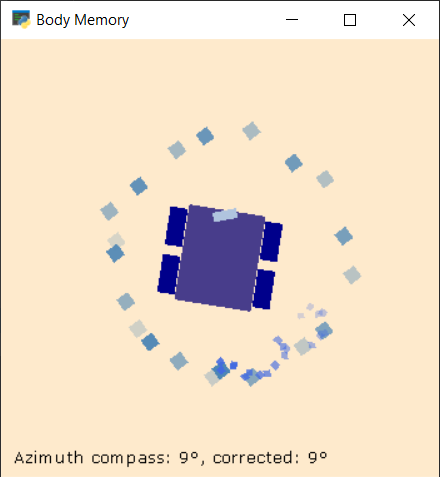
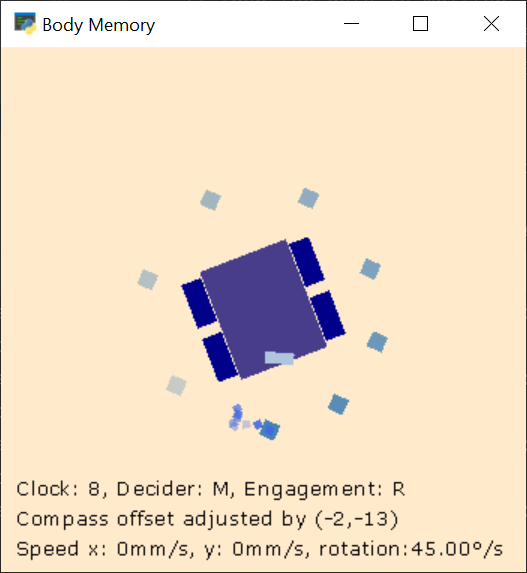
imu fix bug

diff --git a/autocat_enacter/Robot_define.h b/autocat_enacter/Robot_define.h
@@ -1,4 +1,4 @@
-#define ROBOT_ID 1 // 0: regular Osoyoo robot, 1: robot BSN, 2: robot UCBL, 3: robot SHS, 4: SHS with GY86 chez Olivier
+#define ROBOT_ID 3 // 0: regular Osoyoo robot, 1: robot BSN, 2: robot UCBL, 3: robot SHS, 4: SHS with GY86 chez Olivier
 
 #define AP_SSID "osoyoo_robot"          // The wifi SSID of this robot in Access Point
 #define ROBOT_HEAD_X 80                 // (mm) X position of the head
@@ -25,8 +25,8 @@
 #define TURN_SPOT_ENDING_DELAY 500
 #define TURN_SPOT_ENDING_ANGLE 25 // Don't know why this robot is so fast
 #define ACCELERATION_X_OFFSET -40
-#define COMPASS_X_OFFSET 35110 // 35500
-#define COMPASS_Y_OFFSET 36680  // 36500
+#define COMPASS_X_OFFSET 7051 // 7022  // 35110 // 35500
+#define COMPASS_Y_OFFSET 7306 // 7336  // 36680 // 36500
 #define ACCELERATION_SHOCK_THRESHOLD -200
 #define ACCELERATION_BLOCK_THRESHOLD 60  // TODO depends whether the interaction starts when the robot is immobile
 #define GYRO_COEF 1.2  //  1 // IMU is upright. If turns too much, increase this value
@@ -52,7 +52,7 @@
 #define GYRO_COEF 1.35 // UMI is upright
 #define ROBOT_SERVO_PIN 4
 
-#elif ROBOT_ID == 4
+#elif ROBOT_ID == 3
 
 #warning "Compiling for SHS's robot with GY-86"
 #define ROBOT_HAS_MPU6050  true

diff --git a/autocat_enacter/src/lib/MMC5883.cpp b/autocat_enacter/src/lib/MMC5883.cpp
@@ -10,6 +10,9 @@ MMC5883MA::MMC5883MA(){
 
 void MMC5883MA::begin()
 {
+    // Olivier: Avoids freezing the main loop
+    wire->setWireTimeout( 25000, true);
+
     wire->beginTransmission(MMC_ADDRESS);
     // the address of the register is written first
     // in this case CONTROL REGISTER 0
@@ -246,20 +249,19 @@ String MMC5883MA::readData()
     return value;
 }
 
-// Olivier Georgeon for comptability with HMC5883
+// Olivier Georgeon for compatibility with HMC5883
 void MMC5883MA::setOffset(int xo, int yo)
 {
     xOffset = xo;
     yOffset = yo;
 }
 
-// Olivier Georgeon for comptability with HMC5883
+// Olivier Georgeon for compatibility with HMC5883
 Vector MMC5883MA::readNormalize(void)
 {
     update();
-    v.XAxis = (float)((int)sx - xOffset)/5.0;
-    v.YAxis = (float)((int)sy - yOffset)/5.0;
+    v.XAxis = (float)sx/5.0 - xOffset;
+    v.YAxis = (float)sy/5.0 - yOffset;
     v.ZAxis = (float)sy;
-
     return v;
 }

diff --git a/autocat/Display/BodyDisplay/CtrlBodyView.py b/autocat/Display/BodyDisplay/CtrlBodyView.py
@@ -31,7 +31,7 @@ class CtrlBodyView:
                     # Find the center of the circle made by the compass points
                     xc, yc, r, sigma = cf.taubinSVD(points)
                     # print("Fit circle", xc, yc, r, sigma)
-                    if 200 < r < 300:
+                    if 180 < r < 300:
                         # If the radius is in bound then we can update de compass offset
                         delta_offset = np.array([xc, yc, 0], dtype=int)
                         self.workspace.memory.body_memory.compass_offset += delta_offset

diff --git a/autocat_enacter/Imu.cpp b/autocat_enacter/Imu.cpp
@@ -225,8 +225,8 @@ void Imu::read_azimuth(JSONVar & outcome_object)
     headingDegrees -= 360;
   }
 
-  outcome_object["compass_x"] = (int)norm.XAxis;
-  outcome_object["compass_y"] = (int)norm.YAxis;
+  outcome_object["compass_x"] = round(norm.XAxis);
+  outcome_object["compass_y"] = round(norm.YAxis);
   outcome_object["azimuth"] = headingDegrees;
 
   // return headingDegrees;

diff --git a/autocat_enacter/src/lib/MMC5883.h b/autocat_enacter/src/lib/MMC5883.h
@@ -67,7 +67,7 @@ public:
     long sz;
 	// Olivier
 	Vector readNormalize(void);
-	void  setOffset(int xo, int yo);
+	void setOffset(int xo, int yo);
 	int xOffset, yOffset;
 	Vector v;
 
